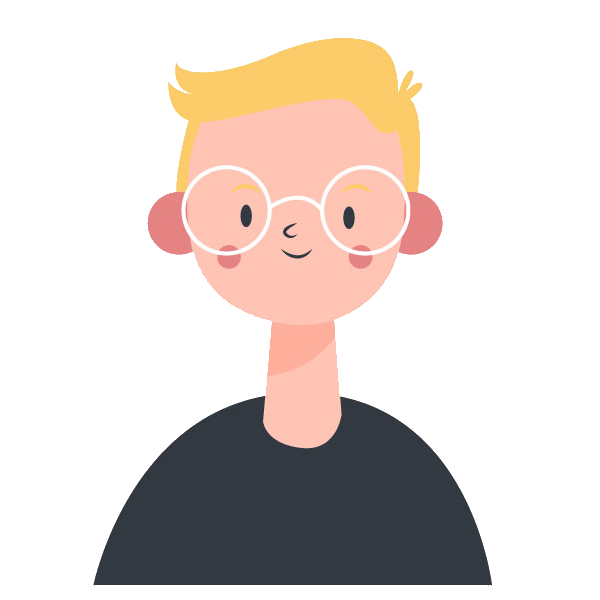
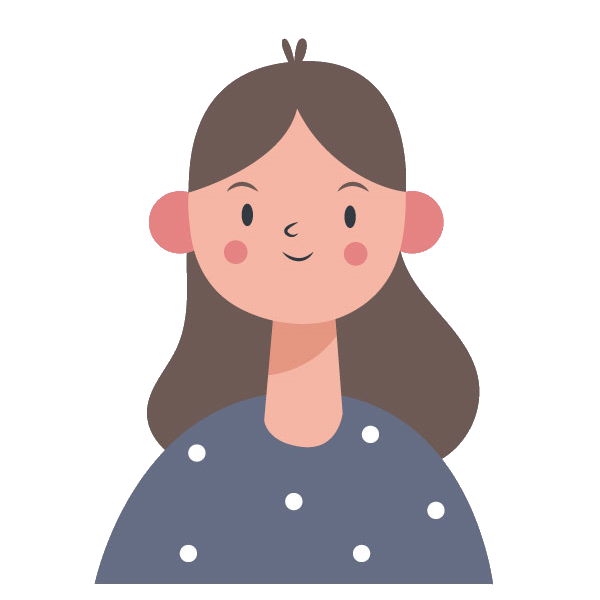
- Fix initialize data - Update dynamic profile image in navbar - Update images, create fallback image - Add overtime validator - Remove holiday validator

diff --git a/src/main/resources/templates/fragments/layout.html b/src/main/resources/templates/fragments/layout.html
@@ -39,7 +39,8 @@
 					</div>
 					<div class="offcanvas-subheader">
 						<div class="offcanvas-image-container mx-auto d-block">
-							<image class="offcanvas-profile-image" th:src="@{/image/1.png}"></image>	
+							<image class="offcanvas-profile-image" th:src="@{/image/}+${#ctx.session.employee.id}+${'.png'}"
+								onerror="if (this.src != '0.png') this.src = '/image/0.png';"></image>
 						</div>
 					</div>
 					<div class="offcanvas-body">

diff --git a/src/main/java/sg/edu/nus/iss/lms/LeaveManagementSystemApplication.java b/src/main/java/sg/edu/nus/iss/lms/LeaveManagementSystemApplication.java
@@ -46,22 +46,11 @@ public class LeaveManagementSystemApplication {
 	public static void main(String[] args) throws IOException {
 		SpringApplication.run(LeaveManagementSystemApplication.class, args);
 	}
-	
-	// Reference: https://www.baeldung.com/java-read-json-from-url
-	// Reference: https://stackoverflow.com/questions/71788850/how-to-parse-a-json-array-of-objects-using-jackson
-	public static Holiday[] getHolidaysFromAPI() throws IOException {
-		URL url = new URL("https://holidayapi.com/v1/holidays?pretty&country=SG&year=2022&key=2872decf-d74d-4f8f-997b-822b41f2908a");
-		ObjectMapper mapper = new ObjectMapper();
-	    ObjectNode node = mapper.readValue(url, ObjectNode.class);
-	    return mapper.treeToValue(node.get("holidays"), Holiday[].class);
-	}
-	
+
     @Bean
-    CommandLineRunner loadData(AccountRepository accRepo,
-    						   EmployeeRepository empRepo,
-    						   RoleRepository roleRepo,
-    						   LeaveRepository leaveRepo,
-    						   LeaveTypeRepository leaveTypeRepo,
+    CommandLineRunner loadData(AccountRepository accRepo, EmployeeRepository empRepo,
+    						   RoleRepository roleRepo, LeaveRepository leaveRepo,
+    						   LeaveTypeRepository leaveTypeRepo, 
     						   LeaveEntitlementRepository leaveEntitlementRepo,
     						   OvertimeRepository overtimeRepo) {
 		return args -> {
@@ -76,51 +65,79 @@ public class LeaveManagementSystemApplication {
 			Role manager = roleRepo.save(new Role("manager", "Manager", "Manager"));
 			Role staff = roleRepo.save(new Role("staff", "Staff", "Staff Member"));
 			
+			// Create Role List for Account initialization
 			List<Role> allRoles = new ArrayList<Role>() {{ add(admin); add(manager); add(staff); }};
 			List<Role> managerRoles = new ArrayList<Role>() {{ add(manager); add(staff); }};
 			List<Role> staffRoles = new ArrayList<Role>() {{ add(staff); }};
 			
-			// Create Employee Account with Entitlement & Leaves
-			Employee brandonBoss = empRepo.save(new Employee("Lee Junhui Brandon","Boss", LocalDate.of(2023, 02, 01), null));
-			Employee brandonManager = empRepo.save(new Employee("BrandonManager","Manager", LocalDate.of(2023, 02, 01), 1));
-			Employee brandonStaff = empRepo.save(new Employee("BrandonStaff","AdminStaff", LocalDate.of(2023, 02, 01), 2));
-			Employee brandonStaff2 = empRepo.save(new Employee("BrandonStaff2","AdminStaff", LocalDate.of(2023, 02, 01), 2));
-			Employee brandonStaff3 = empRepo.save(new Employee("BrandonStaff3","AdminStaff", LocalDate.of(2023, 02, 01), 2));
-			Employee alexStaff = empRepo.save(new Employee("AlexStaff","ProfessionalStaff", LocalDate.of(2023, 02, 01), null));
+			// Initialize Employees
+			Employee boss = empRepo.save(new Employee("Esther","Boss", LocalDate.of(2023, 01, 01), null));
+			Employee manager1 = empRepo.save(new Employee("Tin","Professional Manager", LocalDate.of(2023, 02, 01), 1));
+			Employee manager2 = empRepo.save(new Employee("Yuen Kwan","Admin Manager", LocalDate.of(2023, 02, 01), 1));
+			Employee staff1a = empRepo.save(new Employee("Lee Junhui Brandon","Professional Staff", LocalDate.of(2023, 03, 01), 2));
+			Employee staff1b = empRepo.save(new Employee("Phyo Khant Ko","Professional Staff", LocalDate.of(2023, 04, 01), 2));
+			Employee staff2a = empRepo.save(new Employee("Shen Yu","Administrative Staff", LocalDate.of(2023, 03, 01), 3));
+			Employee staff2b = empRepo.save(new Employee("Hai Xin Jie","Administrative Staff", LocalDate.of(2023, 04, 01), null));
 			
-			accRepo.save(new Account("brandonStaff", "password1", brandonStaff, staffRoles));
-			accRepo.save(new Account("brandonManager", "password1", brandonManager, allRoles));
-			leaveEntitlementRepo.save(new LeaveEntitlement(brandonStaff, annual, 18));
-			leaveEntitlementRepo.save(new LeaveEntitlement(brandonStaff, medical, 60));
-			leaveEntitlementRepo.save(new LeaveEntitlement(brandonStaff, compensation, 0));
-			leaveRepo.save(new Leave(brandonStaff, annual, LocalDate.of(2023, 12, 26), DaySection.AM, LocalDate.of(2023, 12, 26), DaySection.PM, "Local", "Holiday", "person1", "contact1", LeaveStatus.APPROVED));
-			leaveRepo.save(new Leave(brandonStaff, medical, LocalDate.of(2023, 12, 27), DaySection.AM, LocalDate.of(2023, 12, 27), DaySection.PM, "Overseas", "Sick", "person2", "contact2", LeaveStatus.APPLIED));
-			leaveRepo.save(new Leave(brandonStaff, compensation, LocalDate.of(2023, 12, 28), DaySection.AM, LocalDate.of(2023, 12, 28), DaySection.AM, "Local", "Break", "person3", "contact3", LeaveStatus.REJECTED));
-			leaveRepo.save(new Leave(brandonStaff, annual, LocalDate.of(2023, 12, 29), DaySection.AM, LocalDate.of(2023, 12, 29), DaySection.PM, "Overseas", "Holiday", "person4", "contact4", LeaveStatus.APPROVED));
-			leaveRepo.save(new Leave(brandonStaff, annual, LocalDate.of(2023, 12, 30), DaySection.AM, LocalDate.of(2023, 12, 30), DaySection.AM, "Local", "Holiday", "updated1", "updated2", LeaveStatus.UPDATED));
-			leaveRepo.save(new Leave(brandonStaff, annual, LocalDate.of(2023, 12, 30), DaySection.PM, LocalDate.of(2023, 12, 30), DaySection.PM, "Overseas", "Holiday", "cancelled1", "cancelled2", LeaveStatus.CANCELLED));
-			leaveRepo.save(new Leave(brandonStaff, annual, LocalDate.of(2023, 12, 31), DaySection.AM, LocalDate.of(2023, 12, 31), DaySection.PM, "Local", "Holiday", "delete1", "delete2", LeaveStatus.DELETED));
-			leaveRepo.save(new Leave(brandonStaff, annual, LocalDate.of(2024, 1, 30), DaySection.PM, LocalDate.of(2024, 1, 30), DaySection.PM, "Overseas", "Holiday", "2024-1", "2024-2", LeaveStatus.APPLIED));
-			leaveRepo.save(new Leave(brandonStaff, annual, LocalDate.of(2024, 2, 10), DaySection.PM, LocalDate.of(2024, 2, 10), DaySection.PM, "Local", "Holiday", "2024-1", "2024-2", LeaveStatus.APPLIED));
-			leaveRepo.save(new Leave(brandonStaff, medical, LocalDate.of(2023, 12, 27), DaySection.AM, LocalDate.of(2023, 12, 27), DaySection.PM, "Overseas", "Sick", "person2", "contact2", LeaveStatus.APPLIED));
-			leaveRepo.save(new Leave(brandonStaff, medical, LocalDate.of(2023, 12, 27), DaySection.AM, LocalDate.of(2023, 12, 27), DaySection.PM, "Local", "Sick", "person2", "contact2", LeaveStatus.APPLIED));
-			leaveRepo.save(new Leave(brandonStaff, medical, LocalDate.of(2023, 12, 27), DaySection.AM, LocalDate.of(2023, 12, 27), DaySection.PM, "Overseas", "Sick", "person2", "contact2", LeaveStatus.APPLIED));
-			leaveRepo.save(new Leave(brandonStaff, medical, LocalDate.of(2023, 12, 27), DaySection.AM, LocalDate.of(2023, 12, 27), DaySection.PM, "Local", "Sick", "person2", "contact2", LeaveStatus.APPLIED));
-			leaveRepo.save(new Leave(brandonStaff, medical, LocalDate.of(2023, 12, 27), DaySection.AM, LocalDate.of(2023, 12, 27), DaySection.PM, "Overseas", "Sick", "person2", "contact2", LeaveStatus.APPLIED));
-			leaveRepo.save(new Leave(brandonStaff, medical, LocalDate.of(2023, 12, 27), DaySection.AM, LocalDate.of(2023, 12, 27), DaySection.PM, "Local", "Sick", "person2", "contact2", LeaveStatus.APPLIED));
-			leaveRepo.save(new Leave(brandonStaff, medical, LocalDate.of(2023, 12, 27), DaySection.AM, LocalDate.of(2023, 12, 27), DaySection.PM, "Overseas", "Sick", "person2", "contact2", LeaveStatus.APPLIED));
-			leaveRepo.save(new Leave(brandonStaff2, annual, LocalDate.of(2023, 12, 28), DaySection.AM, LocalDate.of(2023, 12, 28), DaySection.PM, "Local", "Sick", "person2", "contact2", LeaveStatus.APPLIED));
-			leaveRepo.save(new Leave(brandonStaff3, compensation, LocalDate.of(2023, 12, 29), DaySection.AM, LocalDate.of(2023, 12, 29), DaySection.PM, "Overseas", "Sick", "person2", "contact2", LeaveStatus.UPDATED));
-			leaveRepo.save(new Leave(brandonBoss, medical, LocalDate.of(2023, 12, 27), DaySection.AM, LocalDate.of(2023, 12, 27), DaySection.PM, "Local", "Sick", "boss1", "boss1", LeaveStatus.APPLIED));
-			leaveRepo.save(new Leave(brandonBoss, medical, LocalDate.of(2023, 12, 27), DaySection.AM, LocalDate.of(2023, 12, 27), DaySection.PM, "Overseas", "Sick", "boss2", "boss2", LeaveStatus.UPDATED));
-			leaveRepo.save(new Leave(brandonManager, annual, LocalDate.of(2023, 12, 27), DaySection.AM, LocalDate.of(2023, 12, 27), DaySection.PM, "Local", "Sick", "manager1", "manager1", LeaveStatus.APPLIED));
-			leaveRepo.save(new Leave(brandonManager, medical, LocalDate.of(2023, 12, 28), DaySection.AM, LocalDate.of(2023, 12, 29), DaySection.AM, "Overseas", "Sick", "manager2", "manager2", LeaveStatus.UPDATED));
-			leaveRepo.save(new Leave(brandonManager, compensation, LocalDate.of(2023, 12, 27), DaySection.AM, LocalDate.of(2023, 12, 27), DaySection.AM, "Local", "Sick", "manager3", "manager3", LeaveStatus.APPROVED));
-			overtimeRepo.save(new OvertimeClaim(brandonStaff, LocalDateTime.of(LocalDate.of(2023, 2, 1), LocalTime.of(18, 0)), LocalDateTime.of(LocalDate.of(2023, 2, 1), LocalTime.of(22, 0)), "4hrs OT", ClaimStatus.APPLIED));
-			overtimeRepo.save(new OvertimeClaim(brandonStaff, LocalDateTime.of(LocalDate.of(2023, 2, 2), LocalTime.of(18, 30)), LocalDateTime.of(LocalDate.of(2023, 2, 3), LocalTime.of(0, 0)), "5.5hrs OT", ClaimStatus.REJECTED));
-			overtimeRepo.save(new OvertimeClaim(brandonStaff, LocalDateTime.of(LocalDate.of(2023, 2, 3), LocalTime.of(9, 0)), LocalDateTime.of(LocalDate.of(2023, 2, 3), LocalTime.of(18, 0)), "9hours OT", ClaimStatus.APPROVED));
+			// Create Accounts for Employees
+			// -- Accounts (for Login) are not created for the rest
+			accRepo.save(new Account("boss", "password1", boss, allRoles));
+			accRepo.save(new Account("manager1", "password1", manager1, managerRoles));
+			accRepo.save(new Account("staff1a", "password1", staff1a, staffRoles));
+			accRepo.save(new Account("staff2a", "password1", staff2a, staffRoles));
 			
-			// Add Holiday Mock Data from 2022-2024
+			// Create LeaveEntitlement for all Employees with Accounts
+			// -- In Real Situation, all Employees should have LeaveEntitlement			
+			leaveEntitlementRepo.save(new LeaveEntitlement(boss, annual, 18));
+			leaveEntitlementRepo.save(new LeaveEntitlement(boss, medical, 60));
+			leaveEntitlementRepo.save(new LeaveEntitlement(boss, compensation, 0));
+			leaveEntitlementRepo.save(new LeaveEntitlement(manager1, annual, 18));
+			leaveEntitlementRepo.save(new LeaveEntitlement(manager1, medical, 60));
+			leaveEntitlementRepo.save(new LeaveEntitlement(manager1, compensation, 0));
+			leaveEntitlementRepo.save(new LeaveEntitlement(staff1a, annual, 18));
+			leaveEntitlementRepo.save(new LeaveEntitlement(staff1a, medical, 60));
+			leaveEntitlementRepo.save(new LeaveEntitlement(staff1a, compensation, 2));
+			leaveEntitlementRepo.save(new LeaveEntitlement(staff2a, annual, 14));
+			leaveEntitlementRepo.save(new LeaveEntitlement(staff2a, medical, 60));
+			leaveEntitlementRepo.save(new LeaveEntitlement(staff2a, compensation, 0));
+			
+			// Create Leaves for Manager1, Staff1a, Staff1b, Staff2a
+			// -- Note that this will throw ConstraintViolationException if the Leave Dates are not AFTER LocalDate.now().
+			leaveRepo.save(new Leave(manager1, medical, LocalDate.of(2024, 2, 2), DaySection.AM, LocalDate.of(2024, 2, 2), DaySection.PM, "Local", "1 Day Medical Leave", "No remaining work.", "NIL", LeaveStatus.APPROVED));
+			leaveRepo.save(new Leave(manager1, annual, LocalDate.of(2024, 2, 5), DaySection.AM, LocalDate.of(2024, 2, 19), DaySection.PM, "Overseas", "15 Day Leave", "No remaining work.", "Mobile: 81234567", LeaveStatus.APPLIED));
+			leaveRepo.save(new Leave(manager1, compensation, LocalDate.of(2024, 2, 20), DaySection.AM, LocalDate.of(2024, 2, 20), DaySection.AM, "Local", "Half-Day Compensation Leave", "No remaining work.", "NIL", LeaveStatus.APPLIED));
+			
+			leaveRepo.save(new Leave(staff1a, compensation, LocalDate.of(2024, 1, 10), DaySection.AM, LocalDate.of(2024, 1, 10), DaySection.AM, "Local", "Half-Day Compensation Leave", "No remaining work.", "NIL", LeaveStatus.APPLIED));
+			leaveRepo.save(new Leave(staff1a, medical, LocalDate.of(2024, 1, 11), DaySection.AM, LocalDate.of(2024, 1, 11), DaySection.AM, "Local", "1-Day Medical Appt", "No remaining work.", "NIL", LeaveStatus.APPROVED));
+			leaveRepo.save(new Leave(staff1a, annual, LocalDate.of(2024, 1, 12), DaySection.AM, LocalDate.of(2024, 1, 18), DaySection.PM, "Overseas", "1 Week Leave", "No remaining work.", "Mobile: 91234567", LeaveStatus.APPLIED));
+			leaveRepo.save(new Leave(staff1a, annual, LocalDate.of(2024, 1, 19), DaySection.AM, LocalDate.of(2024, 1, 19), DaySection.PM, "Local", "1 Day Leave", "No remaining work.", "NIL", LeaveStatus.UPDATED));
+			leaveRepo.save(new Leave(staff1a, annual, LocalDate.of(2024, 1, 22), DaySection.AM, LocalDate.of(2024, 1, 22), DaySection.PM, "Local", "1 Day Leave", "No remaining work.", "NIL", LeaveStatus.DELETED));
+			leaveRepo.save(new Leave(staff1a, annual, LocalDate.of(2024, 1, 23), DaySection.AM, LocalDate.of(2024, 1, 23), DaySection.PM, "Local", "1 Day Leave", "No remaining work.", "NIL", LeaveStatus.APPROVED));
+			leaveRepo.save(new Leave(staff1a, annual, LocalDate.of(2024, 1, 24), DaySection.AM, LocalDate.of(2024, 1, 25), DaySection.PM, "Local", "2 Day Leave", "No remaining work.", "NIL", LeaveStatus.REJECTED));
+			leaveRepo.save(new Leave(staff1a, annual, LocalDate.of(2024, 1, 26), DaySection.AM, LocalDate.of(2024, 1, 26), DaySection.PM, "Local", "1 Day Leave", "No remaining work.", "NIL", LeaveStatus.CANCELLED));
+			leaveRepo.save(new Leave(staff1a, annual, LocalDate.of(2024, 2, 5), DaySection.AM, LocalDate.of(2024, 2, 5), DaySection.PM, "Local", "1 Day Leave", "No remaining work.", "NIL", LeaveStatus.APPLIED));
+			leaveRepo.save(new Leave(staff1a, annual, LocalDate.of(2024, 2, 6), DaySection.AM, LocalDate.of(2024, 2, 6), DaySection.PM, "Local", "1 Day Leave", "No remaining work.", "NIL", LeaveStatus.APPLIED));
+			leaveRepo.save(new Leave(staff1a, annual, LocalDate.of(2024, 2, 7), DaySection.AM, LocalDate.of(2024, 2, 7), DaySection.PM, "Local", "1 Day Leave", "No remaining work.", "NIL", LeaveStatus.APPLIED));
+			leaveRepo.save(new Leave(staff1a, annual, LocalDate.of(2024, 2, 8), DaySection.AM, LocalDate.of(2024, 2, 8), DaySection.PM, "Local", "1 Day Leave", "No remaining work.", "NIL", LeaveStatus.APPLIED));
+			leaveRepo.save(new Leave(staff1a, annual, LocalDate.of(2024, 2, 9), DaySection.AM, LocalDate.of(2024, 2, 9), DaySection.PM, "Local", "1 Day Leave", "No remaining work.", "NIL", LeaveStatus.APPLIED));
+			leaveRepo.save(new Leave(staff1a, annual, LocalDate.of(2024, 2, 12), DaySection.AM, LocalDate.of(2024, 2, 26), DaySection.PM, "Overseas", "15 Day Leave", "No remaining work.", "Mobile: 91234567", LeaveStatus.APPLIED));
+			overtimeRepo.save(new OvertimeClaim(staff1a, LocalDateTime.of(LocalDate.of(2023, 12, 1), LocalTime.of(18, 0)), LocalDateTime.of(LocalDate.of(2023, 12, 1), LocalTime.of(22, 0)), "4hrs OT", ClaimStatus.APPLIED));
+			overtimeRepo.save(new OvertimeClaim(staff1a, LocalDateTime.of(LocalDate.of(2023, 12, 2), LocalTime.of(18, 30)), LocalDateTime.of(LocalDate.of(2023, 12, 3), LocalTime.of(0, 0)), "5.5hrs OT", ClaimStatus.APPLIED));
+			overtimeRepo.save(new OvertimeClaim(staff1a, LocalDateTime.of(LocalDate.of(2023, 12, 3), LocalTime.of(9, 0)), LocalDateTime.of(LocalDate.of(2023, 12, 3), LocalTime.of(18, 0)), "9hours OT", ClaimStatus.APPLIED));
+			overtimeRepo.save(new OvertimeClaim(staff1a, LocalDateTime.of(LocalDate.of(2023, 12, 4), LocalTime.of(18, 30)), LocalDateTime.of(LocalDate.of(2023, 12, 5), LocalTime.of(0, 0)), "5.5hrs OT", ClaimStatus.REJECTED));
+			overtimeRepo.save(new OvertimeClaim(staff1a, LocalDateTime.of(LocalDate.of(2023, 12, 5), LocalTime.of(9, 0)), LocalDateTime.of(LocalDate.of(2023, 12, 5), LocalTime.of(18, 0)), "9hours OT", ClaimStatus.APPROVED));
+			
+			leaveRepo.save(new Leave(staff1b, annual, LocalDate.of(2024, 1, 10), DaySection.AM, LocalDate.of(2024, 1, 12), DaySection.PM, "Local", "Overlapping Leave", "No remaining work.", "Mobile: 92234567", LeaveStatus.APPROVED));
+			leaveRepo.save(new Leave(staff1b, annual, LocalDate.of(2024, 1, 16), DaySection.AM, LocalDate.of(2024, 1, 16), DaySection.PM, "Local", "1 Day Leave", "No remaining work.", "NIL", LeaveStatus.APPLIED));
+			leaveRepo.save(new Leave(staff1b, annual, LocalDate.of(2024, 1, 17), DaySection.AM, LocalDate.of(2024, 1, 17), DaySection.PM, "Local", "1 Day Leave", "No remaining work.", "NIL", LeaveStatus.REJECTED));
+			leaveRepo.save(new Leave(staff2a, annual, LocalDate.of(2024, 2, 5), DaySection.AM, LocalDate.of(2024, 2, 5), DaySection.PM, "Local", "1 Day Leave", "No remaining work.", "NIL", LeaveStatus.APPLIED));
+			leaveRepo.save(new Leave(staff2a, annual, LocalDate.of(2024, 2, 6), DaySection.AM, LocalDate.of(2024, 2, 6), DaySection.PM, "Local", "1 Day Leave", "No remaining work.", "NIL", LeaveStatus.APPLIED));
+			leaveRepo.save(new Leave(staff2a, annual, LocalDate.of(2024, 2, 7), DaySection.AM, LocalDate.of(2024, 2, 7), DaySection.PM, "Local", "1 Day Leave", "No remaining work.", "NIL", LeaveStatus.APPLIED));
+			
+			/* -- Add Holiday Mock Data from 2022-2024 --
+			 * Free access to the API only gives data for 2022.
+			 * 2023 & 2024 mock data are duplicated from 2022 data.
+			 */
 			/*
 		    for (Holiday holiday : getHolidaysFromAPI()) {
 		    	holidayRepo.saveAndFlush(holiday);
@@ -132,5 +149,14 @@ public class LeaveManagementSystemApplication {
 		    	holidayRepo.saveAndFlush(holiday2024);
 		    }*/
 		};
+	}
+    
+	// Reference: https://www.baeldung.com/java-read-json-from-url
+	// Reference: https://stackoverflow.com/questions/71788850/how-to-parse-a-json-array-of-objects-using-jackson
+	public static Holiday[] getHolidaysFromAPI() throws IOException {
+		URL url = new URL("https://holidayapi.com/v1/holidays?pretty&country=SG&year=2022&key=2872decf-d74d-4f8f-997b-822b41f2908a");
+		ObjectMapper mapper = new ObjectMapper();
+	    ObjectNode node = mapper.readValue(url, ObjectNode.class);
+	    return mapper.treeToValue(node.get("holidays"), Holiday[].class);
 	}
 }

diff --git a/src/main/java/sg/edu/nus/iss/lms/validator/OvertimeValidator.java b/src/main/java/sg/edu/nus/iss/lms/validator/OvertimeValidator.java
@@ -1,5 +1,6 @@
 package sg.edu.nus.iss.lms.validator;
 
+import java.time.Duration;
 import java.time.LocalDateTime;
 
 import org.springframework.stereotype.Component;
@@ -24,7 +25,12 @@ public class OvertimeValidator implements Validator {
 		
 		// Require End Time after Start Time
 		if (endTime.isBefore(startTime)) {
-			errors.rejectValue("endTime", "error.endTime","End Time must be after Start Time.");
+			errors.rejectValue("endTime", "error.endTime", "End Time must be after Start Time.");
+		}
+		
+		// Require minimum 4 hours of Overtime Work
+		if (Duration.between(startTime, endTime).toHours() < 4) {
+			errors.rejectValue("endTime", "error.endTime", "Minimum 4hrs of overtime work required for claim.");
 		}
 	}
 }

diff --git a/src/main/java/sg/edu/nus/iss/lms/interceptor/SecurityInterceptor.java b/src/main/java/sg/edu/nus/iss/lms/interceptor/SecurityInterceptor.java
@@ -43,12 +43,9 @@ public class SecurityInterceptor implements HandlerInterceptor {
 		Account account = (Account) sessionObj.getAttribute("account");
 	    List<Role> userRoles = account.getRoles();
 	    List<String> userRoleNames = new ArrayList<>();
-	    
 	    for (Role role : userRoles) {
 	    	userRoleNames.add(role.getId());
 	    }
-	    
-	    System.out.println(userRoleNames);
 	    
 	    if (uri.startsWith("/admin") && !userRoleNames.contains("admin")) {
 	    	throw new UnauthorizedException();

diff --git a/readme.md b/readme.md
@@ -1,0 +1,29 @@
+# Instructions
+
+1. Open 'Spring Tool Suit 4'
+
+2. Ensure that JDK-17 is correctly configured
+
+3. Files > Import > Existing Maven Project, Select Folder.
+- It should automatically detect a POM.xml file
+- After importing, the project should appear in the package explorer.
+
+4. Ensure MySQL service is running on your PC
+
+5. Edit 'applications.properties' file with your username and password for your SQL server. For example:
+- spring.datasource.username=root
+- spring.datasource.username=password
+
+6. Create Database called 'lms' using your Database Explorer of course (e.g. HeidiSQL), and ensure that it is running on Port 3306.
+
+7. If you are running this AFTER 10 Jan 2024:
+- You will have to comment out or change the dates of Leaves BEFORE your current date under CommandLineRunner.
+- As we ensure that all leaves can only be created in the 'future', the validation will fail for those Leaves and the database cannot be initialized with mock data.
+
+8. Right-Click the Project > 'Run As' > 'Spring Boot App'.
+
+9. Using your browser, go to http://localhost:8080/ for the app's login page. 
+- Login with username 'boss' for an account with Admin, Manager, and Staff privileges.
+- Login with username 'manager1' for an account with Manager and Staff privileges.
+- Login with username 'staff1' for an account with only Staff privileges.
+- Password is 'password1' for all accounts.
